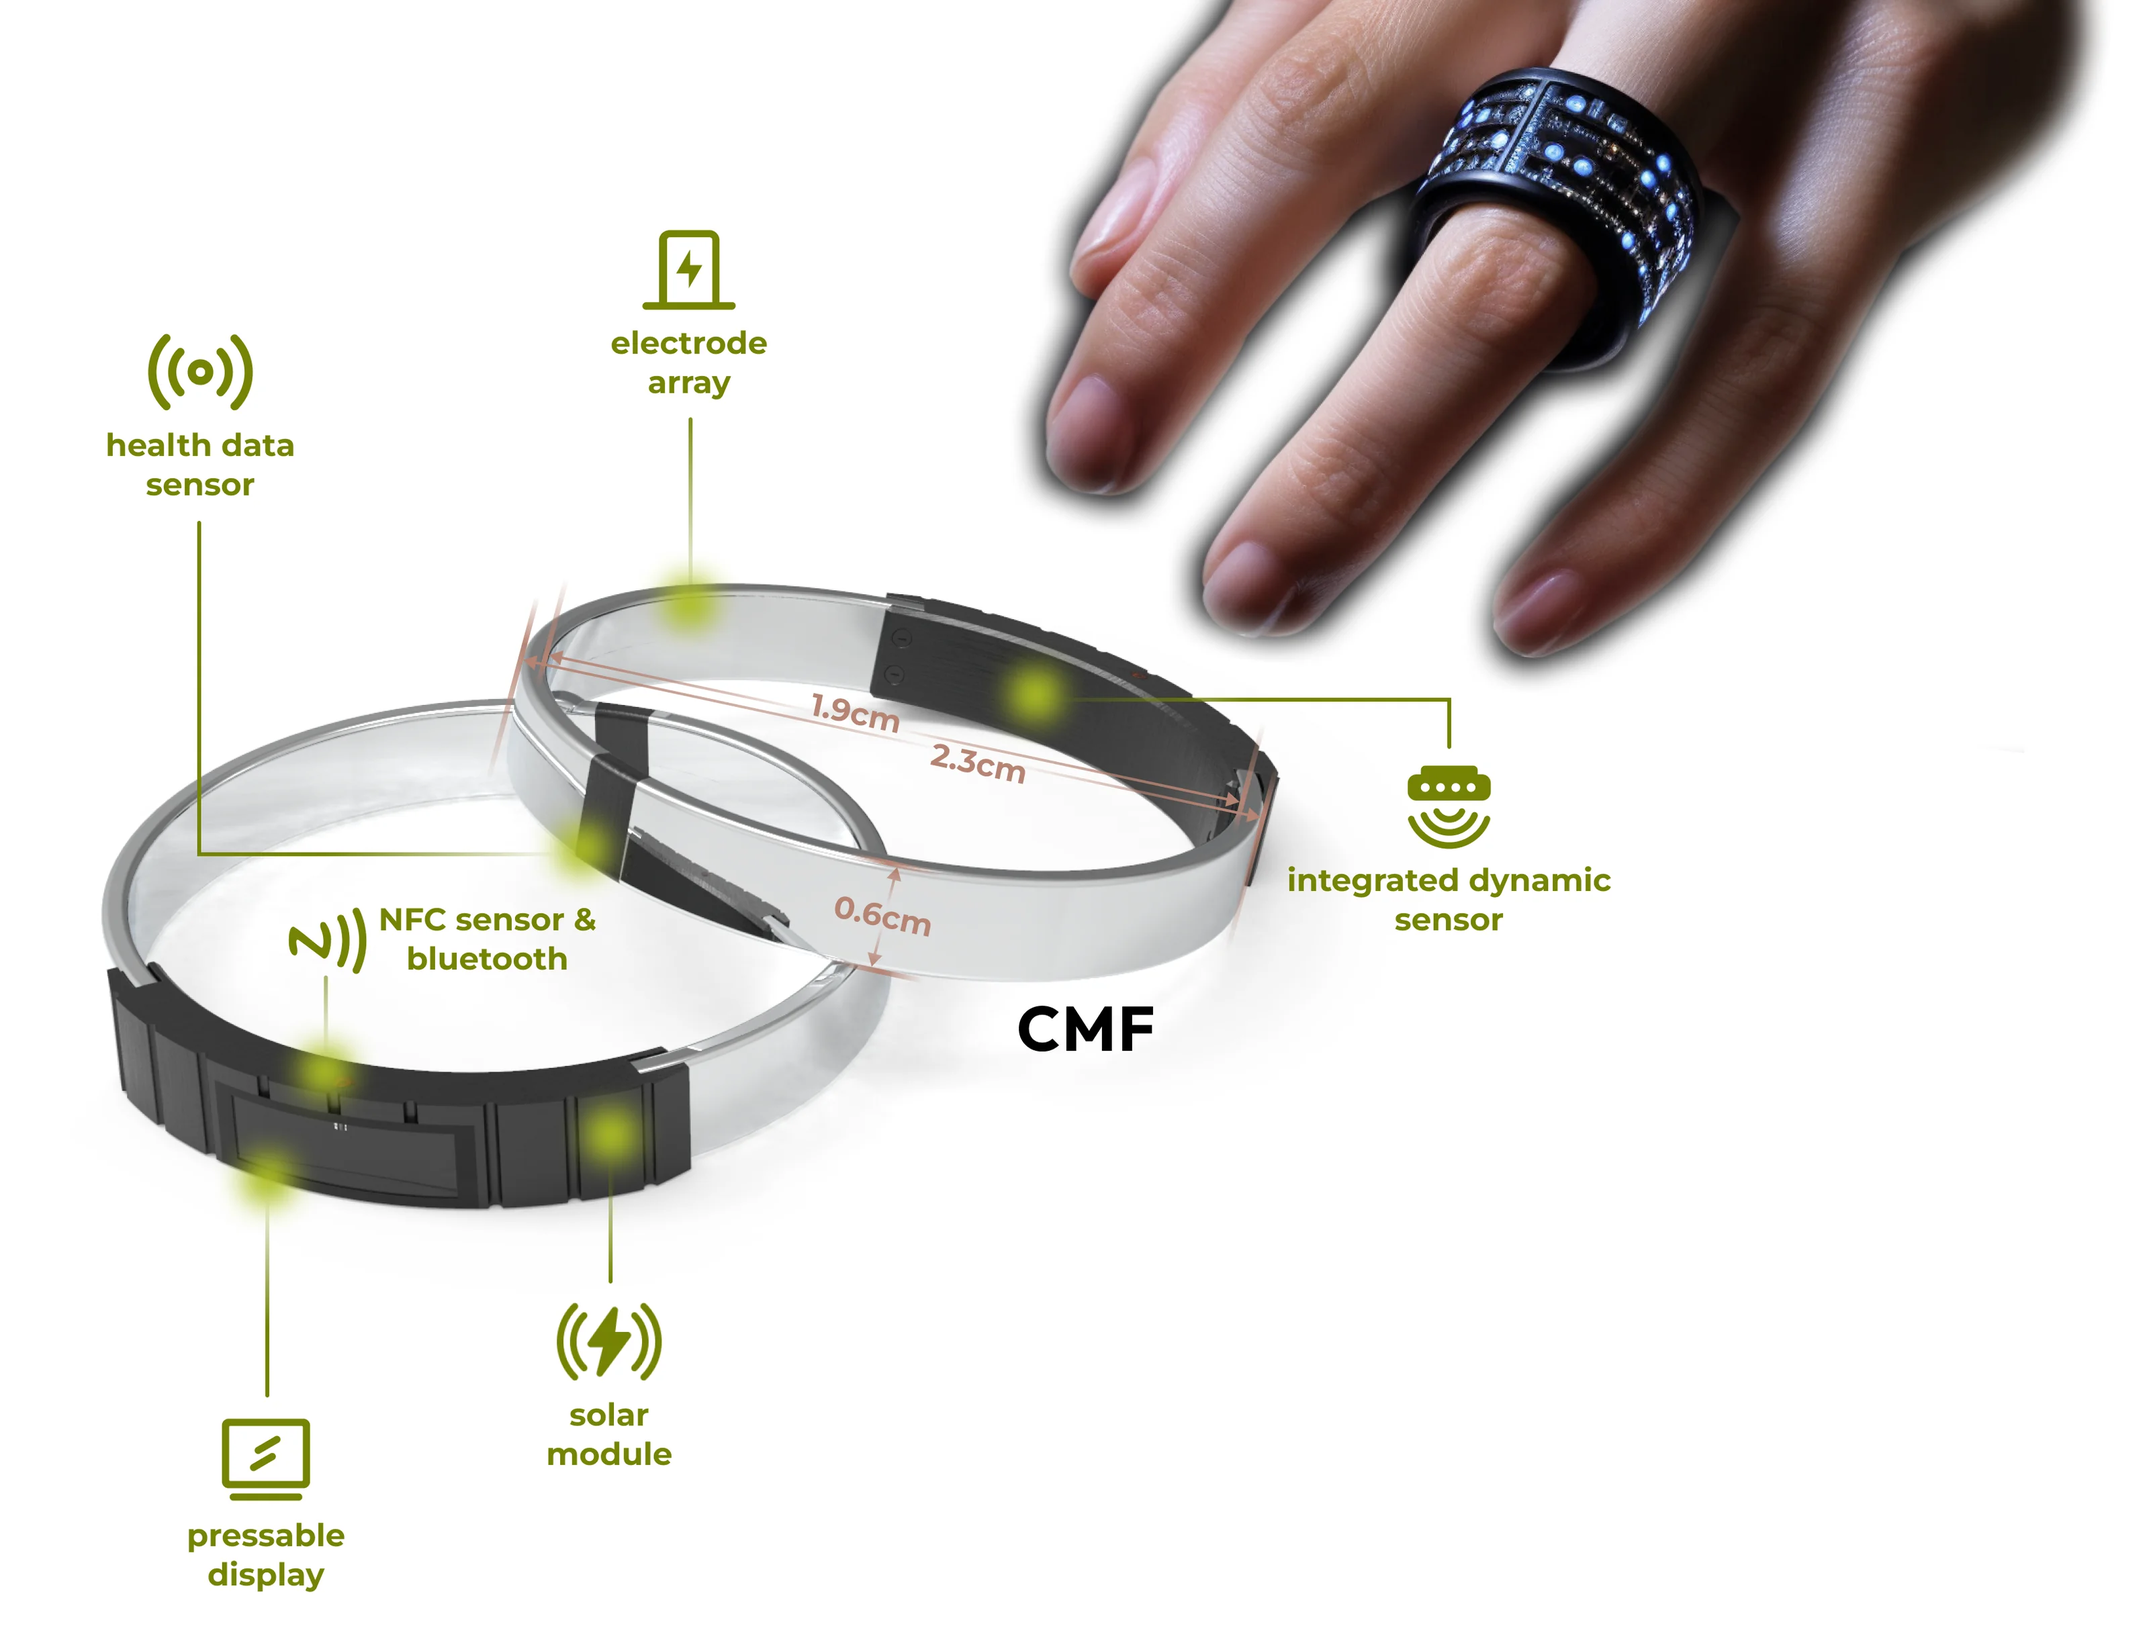
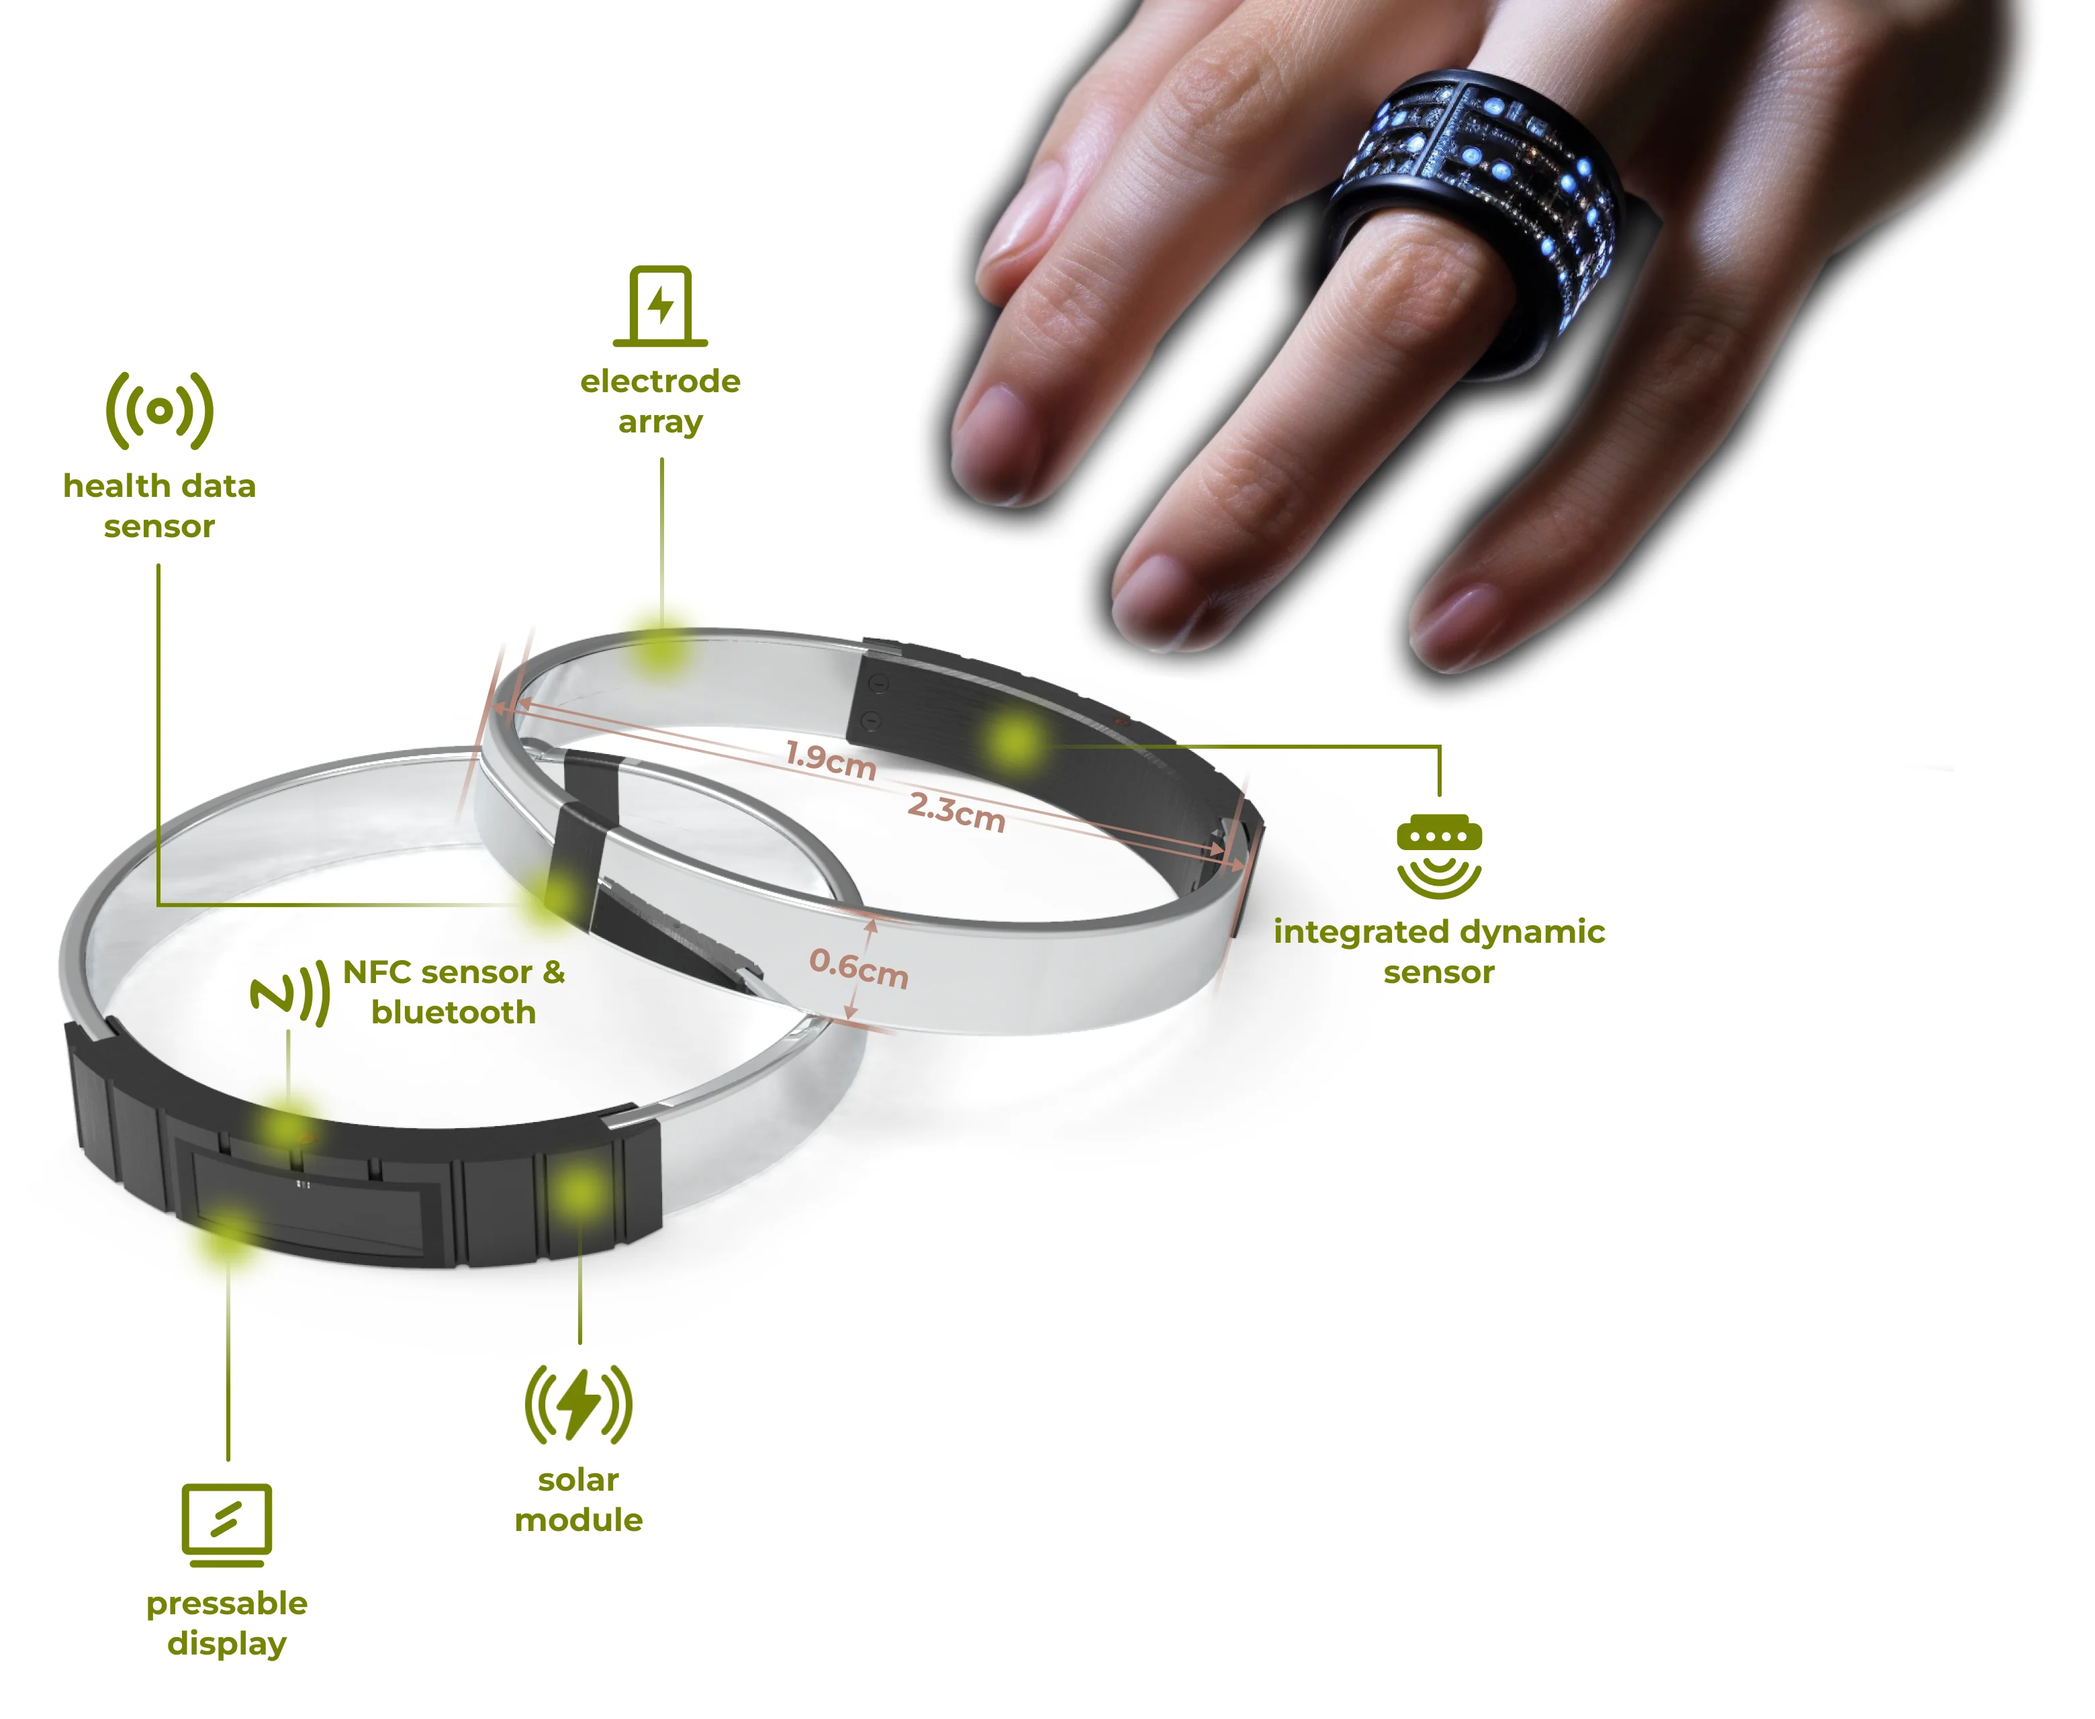
New render masters, and a caption that stops explaining the picture
The ring render came back without the CMF panel, so the pair's split follows
the new aspect, 1.219 against the sketches' 1.491, and the two still come out
the same height. High-fidelity re-exported from the updated master.

The render's caption listed what the image already labels. It names the thing
now and lets the annotations do their own work.

Changed region(s): [[0.0311, 0.0, 0.9949, 0.989], [0.2487, 0.7727, 0.3109, 0.8963]]

diff --git a/src/content/projects/comgrand.md b/src/content/projects/comgrand.md
@@ -372,10 +372,10 @@ all-day wear than a larger wrist device, while also making simple tap-based inte
 such as identity exchange, payment, and event check-in more immediate.
 
 <!-- The exploration and what it resolved into, in the pictures' own aspect
-     ratios, 1.491 and 1.302, so the sheet of sketches and the render come out
+     ratios, 1.491 and 1.219, so the sheet of sketches and the render come out
      the same height with neither cropped. -->
 
-<div class="media-pair" style="--pair-split: 1.491fr 1.302fr">
+<div class="media-pair" style="--pair-split: 1.491fr 1.219fr">
   <figure>
     <img
       src="/media/comgrand/ring-sketches.webp"
@@ -392,12 +392,12 @@ such as identity exchange, payment, and event check-in more immediate.
     <img
       src="/media/comgrand/ring-product-render.webp"
       alt="A render of the ring in two finishes, annotated with the proposed components: health data sensor, electrode array, integrated dynamic sensor, NFC and Bluetooth, a pressable display and a solar module, with the digital model measured at 1.9 by 2.3 by 0.6 centimetres. A hand wearing a ring sits above."
-      width="3200"
-      height="2459"
+      width="3120"
+      height="2560"
       loading="lazy"
       decoding="async"
     />
-    <figcaption>The digital model of the ring, with the components and dimensions the concept proposed.</figcaption>
+    <figcaption>The digital model of the ring.</figcaption>
   </figure>
 </div>
 
